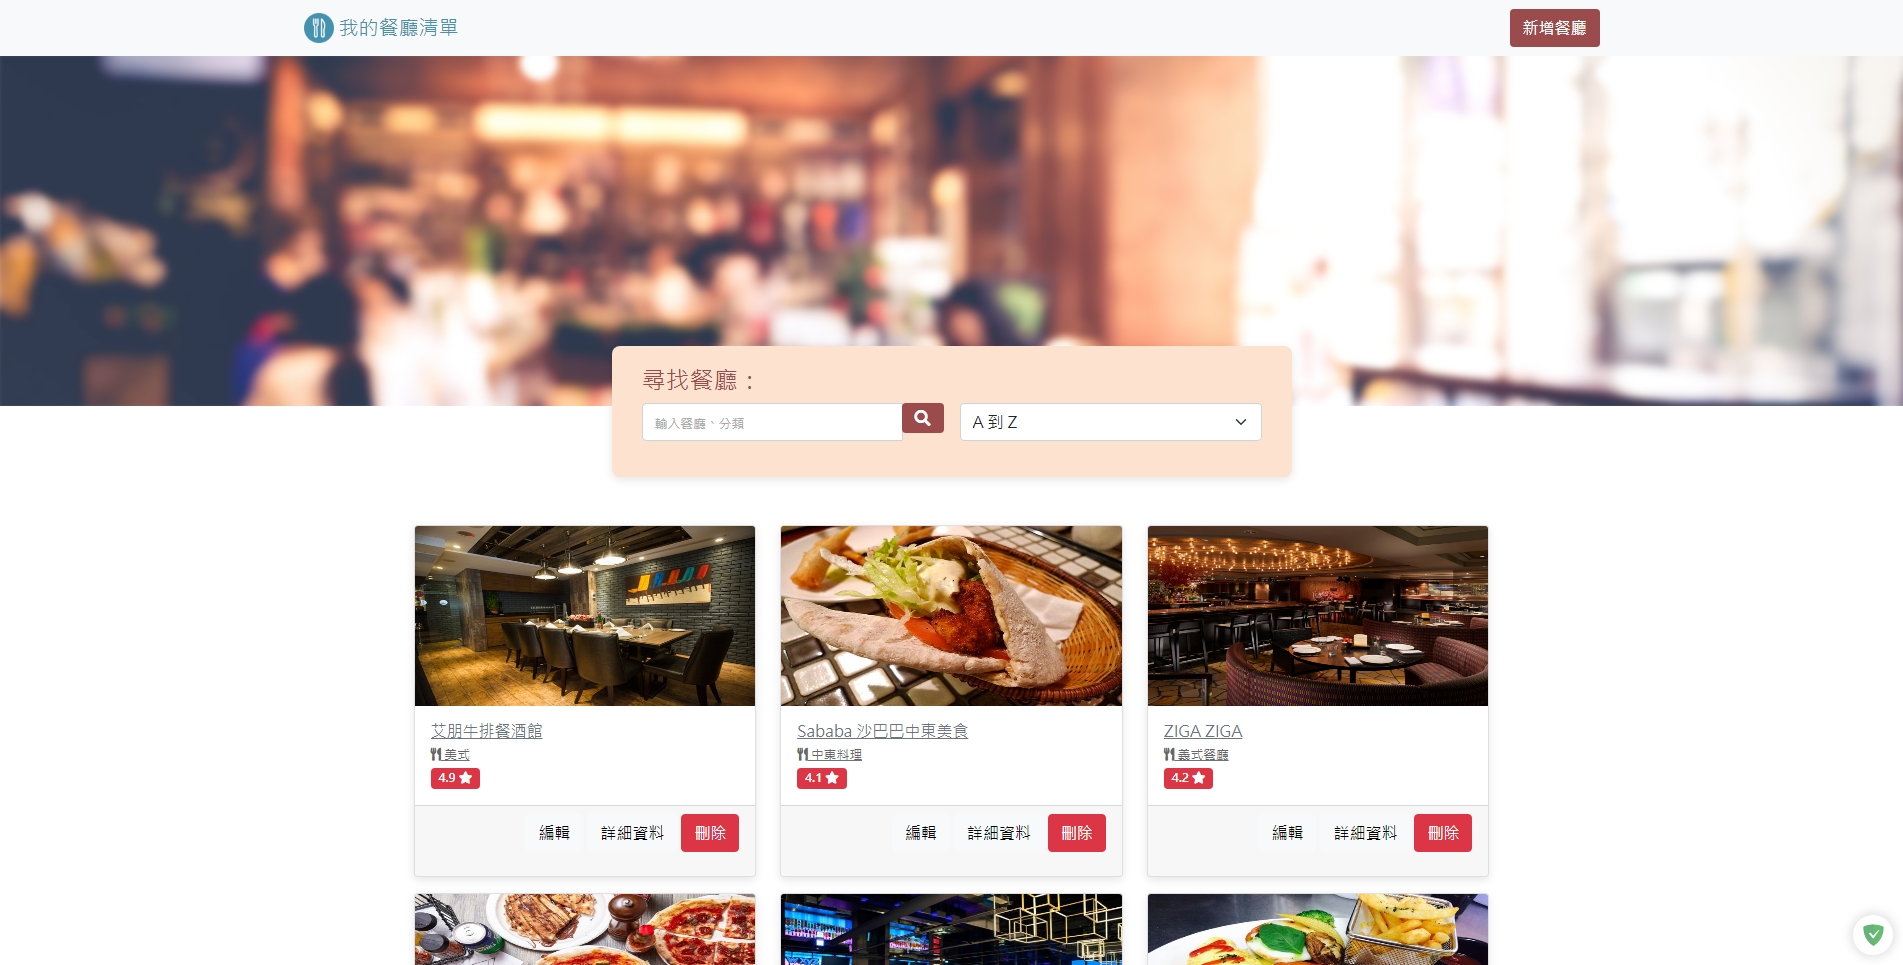
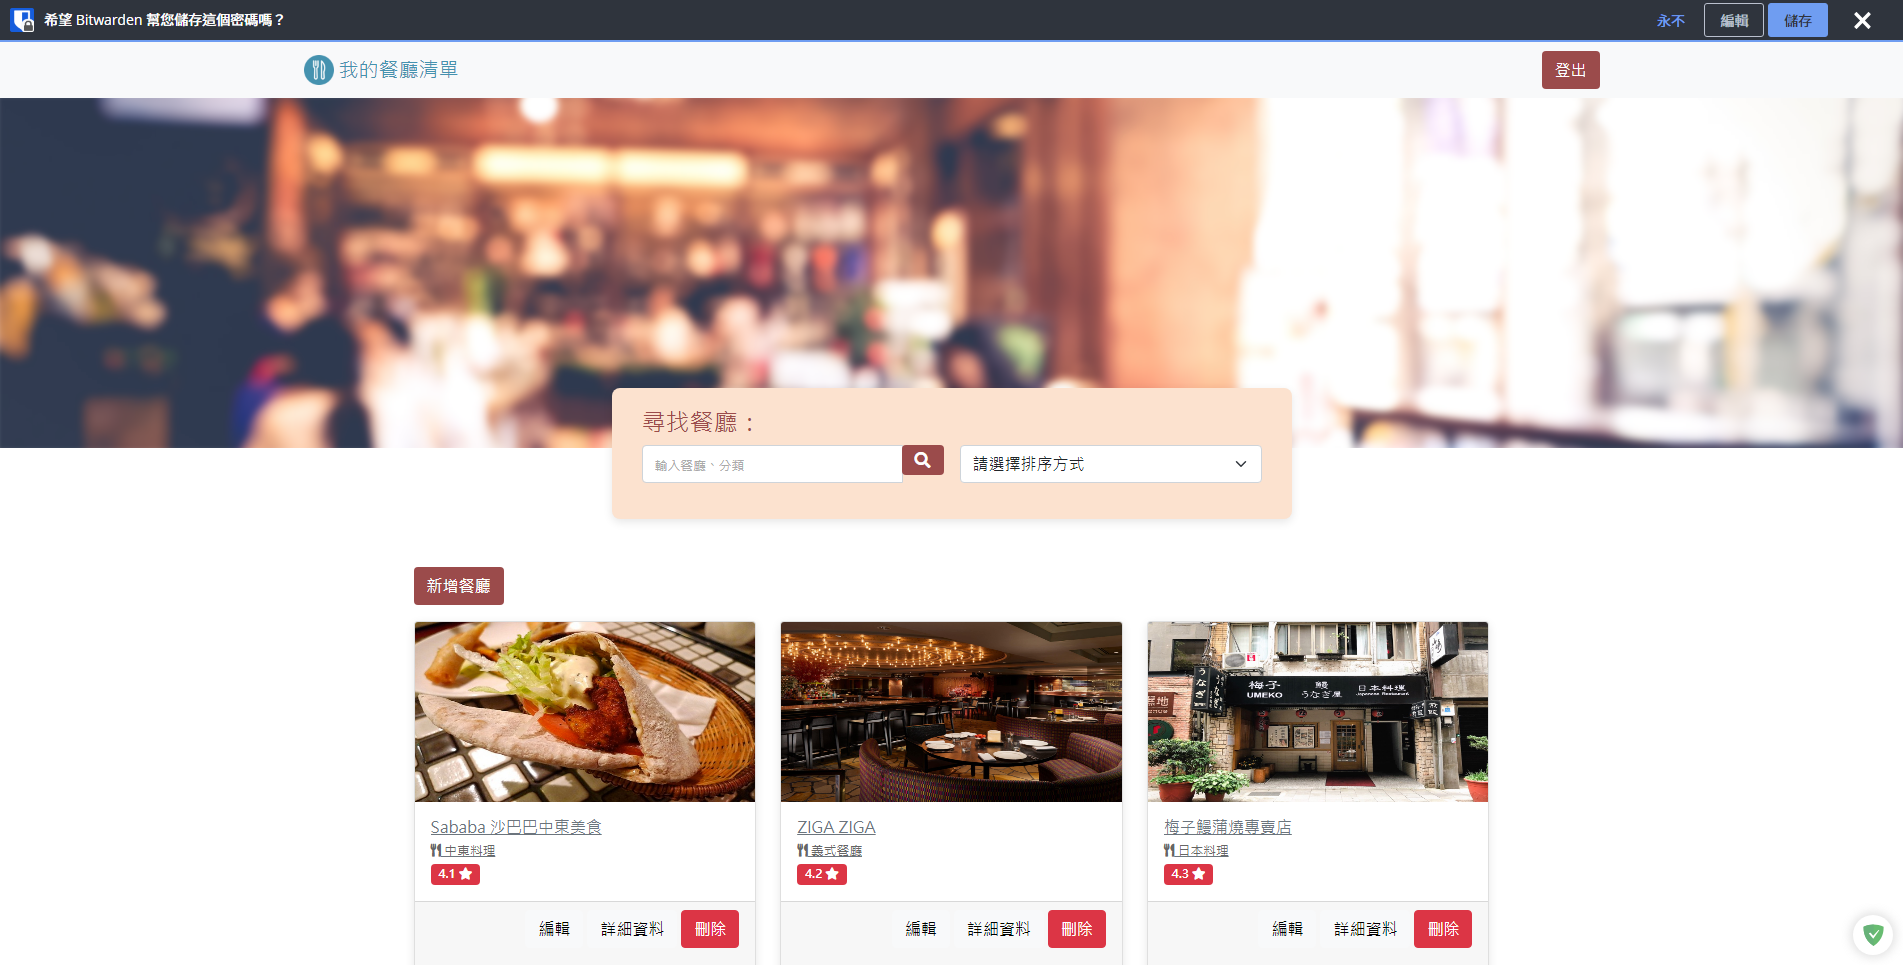
Update README and env example

diff --git a/README.md b/README.md
@@ -7,6 +7,7 @@
 1. 另頁顯示個別餐廳的詳細資訊。
 2. 透過搜尋功能（名稱或餐廳分類）尋找特定的餐廳。
 3. 新增、刪除、修改餐廳資料。
+4. 使用者登入機制 (包含本地及 Facebook 登入)，讓每名使用者可以管理自己專屬的餐廳清單。
 
 ## 畫面
 
@@ -21,6 +22,7 @@
 4.  Mongoose version 5.9.7
 5.  Dotenv version 16.3.1
 6.  Method-override 3.0.0
+7.  Passport 0.4.1
 
 ## 安裝流程
 
@@ -36,11 +38,7 @@
     npm install
     ```
 
-3.  安裝完成後，請建立「.env」檔案，依照以下格式設定連到您自己 MongoDB 的連結：
-
-    ```
-    MONGODB_URI=mongodb+srv://<您的 MongoDB 帳號>:<您的 MongoDB 密碼>@xxx.xxx.xxx.net/restaurant-list?retryWrites=true&w=majority
-    ```
+3.  安裝完成後，請建立「.env」檔案，依照「.env.example」的格式設定連到您自己 MongoDB 的連結、Facebook 應用程式編碼及密鑰。
 
 4.  執行以下指令，匯入本專案的種子資料到 MongoDB 資料庫：
 
@@ -65,3 +63,5 @@
     ```
     The website http://localhost:3000 is online.
     ```
+
+    請使用 user1@example.com 或 user2@example.com 進行登入，密碼皆爲 12345678。
